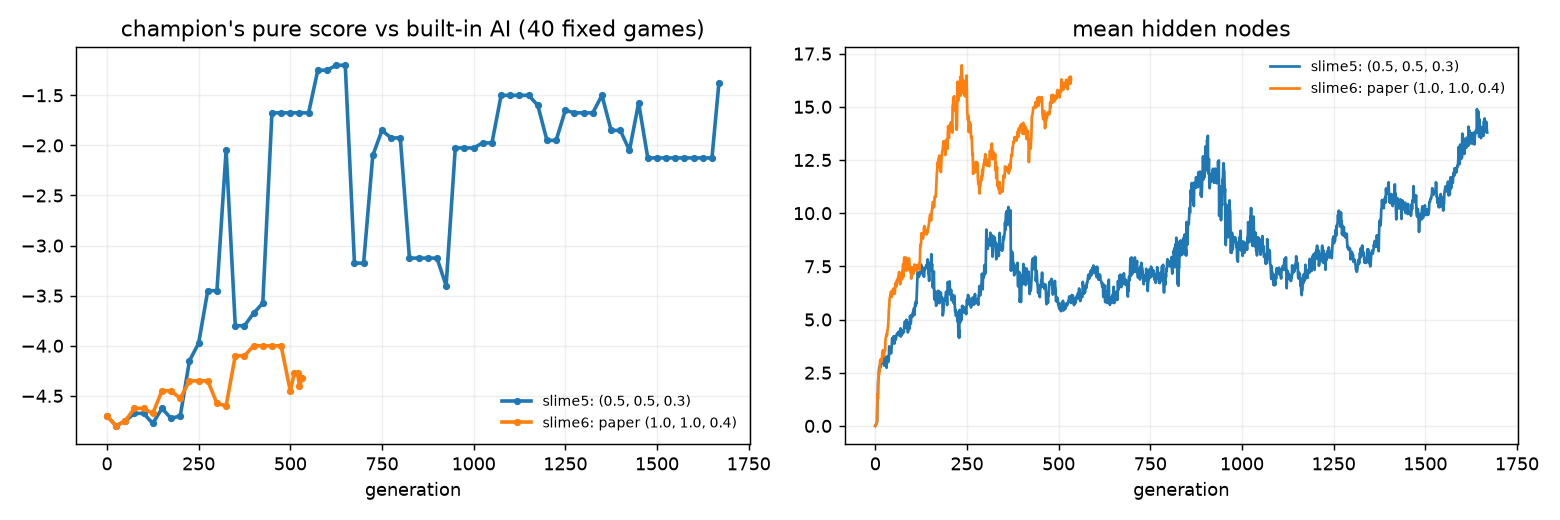
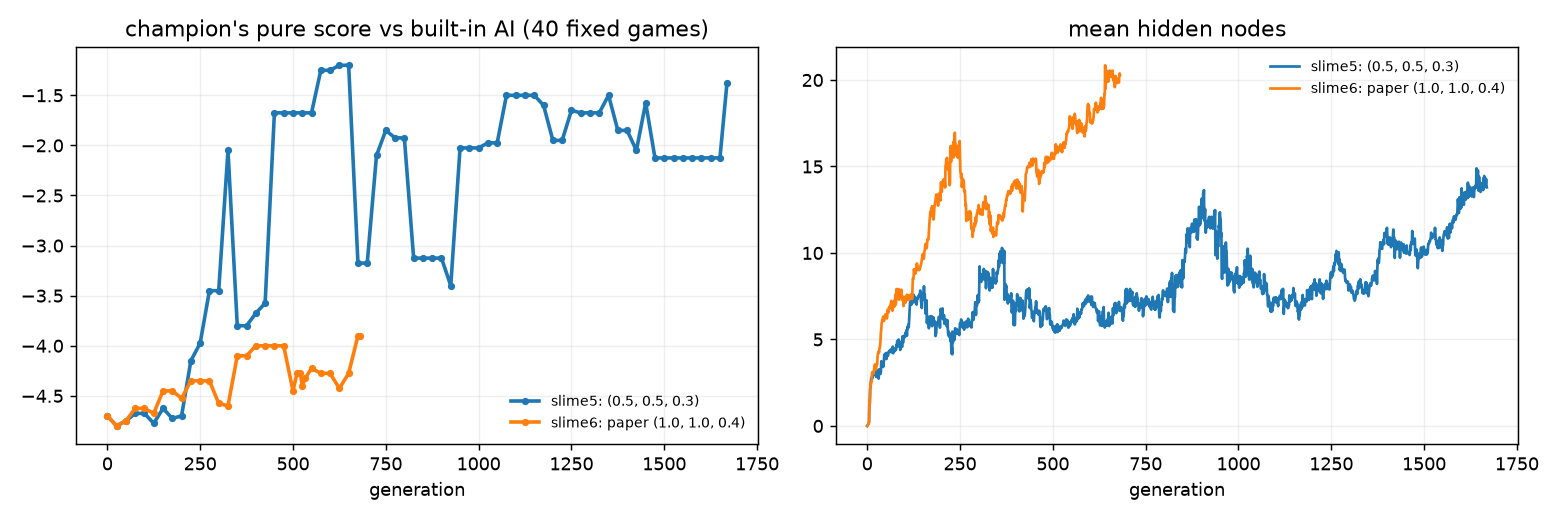
Slime6 stopped at gen 681: paper's coefficients slower, bigger networks; ablation figure updated

diff --git a/DECISIONS.md b/DECISIONS.md
@@ -212,3 +212,6 @@ Best genome chosen by validation fitness, then scored once on the untouched test
 Test accuracy is 0–6 points below validation in every run. Part of this gap is expected: the best genome is the one with the highest validation fitness out of about 6,000 evaluated, so its validation score is optimistic. **Circle seed 1** has the largest gap (0.990 validation, 0.930 test). Its training accuracy is 0.990 too, so it is not overfitting the training points. A fixed circle rule (radius 3.125, between the two classes) scores 0.975 on that test split, so only about 2.5 points are label noise. The other ~4.5 points are the evolved boundary generalizing poorly in regions that the 200 training and validation points do not cover. With two seeds per dataset, this is best read as seed variance.
 
 The networks are small: XOR needs 2–3 hidden nodes, the circle 3, and the spiral 5–6, with 5–18 connections in total. The spiral is the hardest, as expected. Times vary because two runs overlapped on the CPU for part of the grid. The spiral runs were accidentally executed twice (in the main grid and in a parallel process), and both executions gave identical results, which is further confirmation that a run is fully determined by its seed.
+
+**`slime6` result (stopped at generation 681):** the hall of fame reached −3.80 at generation 350 and did not move again through generation 681, while `slime5` was at −0.70 by generation 786. The champion's score on 40 fixed games stayed between −4.6 and −4.0 (`slime5`: about −1.2 at generation 650). Networks grew much larger: 20.3 hidden nodes on average at generation 681, against about 6–9 for `slime5` at the same point. Speciation itself behaved the same (threshold 2.05× `slime5`'s, as intended; 10 species on average; the 12.0 cap never reached), so the threshold rescaling was not the cause. The likely cause is the ratio: with weight differences counting less, new structure founds and keeps its own species more easily, so the population spends its effort on bigger networks that are slower to tune. One seed per setting, so this is evidence, not proof. **Conclusion:** the paper's coefficients helped on XOR (a short run, where the scale matters before the threshold adapts) but not on Slime; our (0.5, 0.5, 0.3) stays. Figure: `figures/slime/ablation.png`.
+

diff --git a/PROGRESS.md b/PROGRESS.md
@@ -97,4 +97,4 @@ Design decisions and their reasons are in [DECISIONS.md](DECISIONS.md).
 | `runs/slime3` | 0–256 | fitness v2: per-rally survival bonus, returns over the net, node penalty | Agents became active (moving, jumping) and then plateaued: returns about 0.6 per game, hall of fame −4.60. Diagnosis: with 4 games per genome, rankings on two different 4-game sets barely agree (Spearman +0.13), so selection is close to random. |
 | `runs/slime4` | 0–243 | `slime3` + 16 games per genome, node penalty 0.01 (noise ablation) | Hall of fame −4.95 → −4.55 by generation 68, then frozen until it was stopped; returns 0.5–0.8; bloat controlled at first, 16 hidden nodes by the end. Noise was only part of the problem. Next idea: self-play. |
 | `runs/slime5` | 0–1670 (stopped) | 12 self-play (mirror) + 4 built-in AI games per genome; lockstep batching (4× faster) | Hall of fame −4.65 → −0.70 by generation 786, then flat for ~770 generations. 100 fresh games: −1.14, 18.8 returns per game, best game +2. Final, 1,000 new games: −0.852 ± 1.260, win rate 11.8%. Leaderboard self-play: CMA-ES −0.071, GA +0.353. |
-| `runs/slime6` | running | `slime5` + the paper's distance coefficients (1.0, 1.0, 0.4), threshold range doubled | Overnight ablation (see DECISIONS.md). |
+| `runs/slime6` | 0–681 (stopped) | `slime5` + the paper's distance coefficients (1.0, 1.0, 0.4), threshold range doubled | Hall of fame stuck at −3.80 from generation 350; 20 hidden nodes on average (vs −0.70 and 6–9 for `slime5`). The paper's coefficients do not help on Slime (one seed). |
